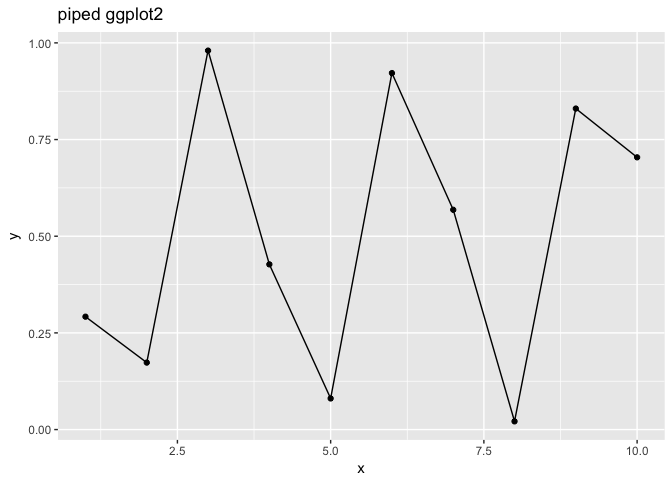
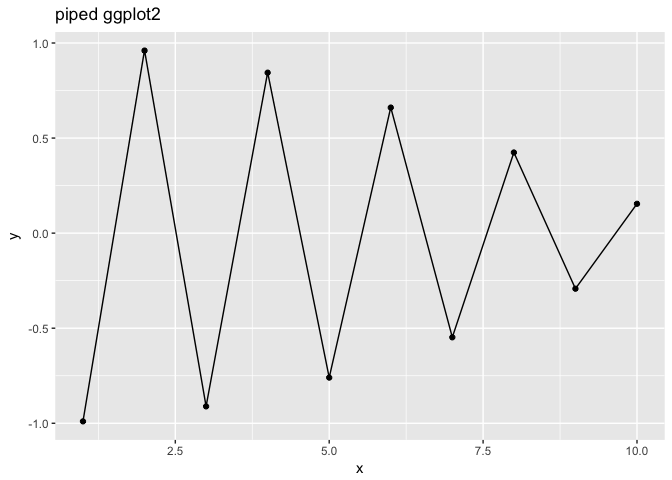
re-dispatch right-default impl. re-do examples.

diff --git a/docs/reference/DebugFnWE.html b/docs/reference/DebugFnWE.html
@@ -166,19 +166,19 @@ Please see: <code><a href='https://cran.rstudio.com/web/packages/wrapr/vignettes
 <span class='co'># capture error on incorrect run</span>
 <span class='fu'>tryCatch</span>(
    <span class='fu'>df</span>(<span class='fl'>12</span>),
-   <span class='kw'>error</span> <span class='kw'>=</span> <span class='kw'>function</span>(<span class='no'>e</span>) { <span class='fu'>print</span>(<span class='no'>e</span>) })</div><div class='output co'>#&gt; &lt;simpleError in value[[3L]](cond): wrapr::DebugFnWE: wrote '/var/folders/7q/h_jp2vj131g5799gfnpzhdp80000gn/T//Rtmpe9z8zF/debug152aa509ebf64.RDS' on catching 'Error in (1:10)[[i]]: subscript out of bounds'
+   <span class='kw'>error</span> <span class='kw'>=</span> <span class='kw'>function</span>(<span class='no'>e</span>) { <span class='fu'>print</span>(<span class='no'>e</span>) })</div><div class='output co'>#&gt; &lt;simpleError in value[[3L]](cond): wrapr::DebugFnWE: wrote '/var/folders/7q/h_jp2vj131g5799gfnpzhdp80000gn/T//RtmpmJEVA4/debug8068766d5ba9.RDS' on catching 'Error in (1:10)[[i]]: subscript out of bounds'
 #&gt;  You can reproduce the error with:
-#&gt; 'p &lt;- readRDS('/var/folders/7q/h_jp2vj131g5799gfnpzhdp80000gn/T//Rtmpe9z8zF/debug152aa509ebf64.RDS'); do.call(p$fn, p$args, envir= p$env)'&gt;</div><div class='input'><span class='co'># examine details</span>
+#&gt; 'p &lt;- readRDS('/var/folders/7q/h_jp2vj131g5799gfnpzhdp80000gn/T//RtmpmJEVA4/debug8068766d5ba9.RDS'); do.call(p$fn, p$args, envir= p$env)'&gt;</div><div class='input'><span class='co'># examine details</span>
 <span class='no'>situation</span> <span class='kw'>&lt;-</span> <span class='fu'>readRDS</span>(<span class='no'>saveDest</span>)
 <span class='fu'>str</span>(<span class='no'>situation</span>)</div><div class='output co'>#&gt; List of 5
 #&gt;  $ fn       :function (i)  
 #&gt;   ..- attr(*, "srcref")=Class 'srcref'  atomic [1:8] 3 6 3 32 6 32 3 3
-#&gt;   .. .. ..- attr(*, "srcfile")=Classes 'srcfilecopy', 'srcfile' &lt;environment: 0x1041d18b0&gt; 
+#&gt;   .. .. ..- attr(*, "srcfile")=Classes 'srcfilecopy', 'srcfile' &lt;environment: 0x114bf2660&gt; 
 #&gt;  $ args     :List of 1
 #&gt;   ..$ : num 12
 #&gt;  $ namedargs: language df(12)
 #&gt;  $ fn_name  : chr "f"
-#&gt;  $ env      :&lt;environment: 0x1041d1c68&gt; </div><div class='input'><span class='co'># fix and re-run</span>
+#&gt;  $ env      :&lt;environment: 0x114bf22e0&gt; </div><div class='input'><span class='co'># fix and re-run</span>
 <span class='no'>situation</span>$<span class='no'>args</span><span class='kw'>[[</span><span class='fl'>1</span>]] <span class='kw'>&lt;-</span> <span class='fl'>6</span>
 <span class='fu'>do.call</span>(<span class='no'>situation</span>$<span class='no'>fn</span>, <span class='no'>situation</span>$<span class='no'>args</span>, <span class='kw'>envir</span><span class='kw'>=</span><span class='no'>situation</span>$<span class='no'>env</span>)</div><div class='output co'>#&gt; [1] 6</div><div class='input'><span class='co'># clean up</span>
 <span class='fu'>file.remove</span>(<span class='no'>saveDest</span>)</div><div class='output co'>#&gt; [1] TRUE</div><div class='input'>

diff --git a/docs/reference/DebugPrintFnE.html b/docs/reference/DebugPrintFnE.html
@@ -165,17 +165,17 @@ Please see: <code><a href='https://cran.rstudio.com/web/packages/wrapr/vignettes
 <span class='co'># capture error on incorrect run</span>
 <span class='fu'>tryCatch</span>(
    <span class='fu'>DebugPrintFnE</span>(<span class='no'>saveDest</span>, <span class='no'>f</span>, <span class='fl'>12</span>),
-   <span class='kw'>error</span> <span class='kw'>=</span> <span class='kw'>function</span>(<span class='no'>e</span>) { <span class='fu'>print</span>(<span class='no'>e</span>) })</div><div class='output co'>#&gt; &lt;simpleError in value[[3L]](cond): wrapr::DebugPrintFnE: wrote '/var/folders/7q/h_jp2vj131g5799gfnpzhdp80000gn/T//Rtmpe9z8zF/debug152aa1e28051e.RDS' on catching 'Error in (1:10)[[i]]: subscript out of bounds'
+   <span class='kw'>error</span> <span class='kw'>=</span> <span class='kw'>function</span>(<span class='no'>e</span>) { <span class='fu'>print</span>(<span class='no'>e</span>) })</div><div class='output co'>#&gt; &lt;simpleError in value[[3L]](cond): wrapr::DebugPrintFnE: wrote '/var/folders/7q/h_jp2vj131g5799gfnpzhdp80000gn/T//RtmpmJEVA4/debug8068a48a125.RDS' on catching 'Error in (1:10)[[i]]: subscript out of bounds'
 #&gt;  You can reproduce the error with:
-#&gt; 'p &lt;- readRDS('/var/folders/7q/h_jp2vj131g5799gfnpzhdp80000gn/T//Rtmpe9z8zF/debug152aa1e28051e.RDS'); do.call(p$fn, p$args, envir= p$env)'&gt;</div><div class='input'><span class='co'># examine details</span>
+#&gt; 'p &lt;- readRDS('/var/folders/7q/h_jp2vj131g5799gfnpzhdp80000gn/T//RtmpmJEVA4/debug8068a48a125.RDS'); do.call(p$fn, p$args, envir= p$env)'&gt;</div><div class='input'><span class='co'># examine details</span>
 <span class='no'>situation</span> <span class='kw'>&lt;-</span> <span class='fu'>readRDS</span>(<span class='no'>saveDest</span>)
 <span class='fu'>str</span>(<span class='no'>situation</span>)</div><div class='output co'>#&gt; List of 4
 #&gt;  $ fn     :function (i)  
 #&gt;   ..- attr(*, "srcref")=Class 'srcref'  atomic [1:8] 3 6 3 32 6 32 3 3
-#&gt;   .. .. ..- attr(*, "srcfile")=Classes 'srcfilecopy', 'srcfile' &lt;environment: 0x109cbfd48&gt; 
+#&gt;   .. .. ..- attr(*, "srcfile")=Classes 'srcfilecopy', 'srcfile' &lt;environment: 0x10f8dc3c0&gt; 
 #&gt;  $ args   :List of 1
 #&gt;   ..$ : num 12
-#&gt;  $ env    :&lt;environment: 0x109cbe158&gt; 
+#&gt;  $ env    :&lt;environment: 0x10f8dc040&gt; 
 #&gt;  $ fn_name: chr "f"</div><div class='input'><span class='co'># fix and re-run</span>
 <span class='no'>situation</span>$<span class='no'>args</span><span class='kw'>[[</span><span class='fl'>1</span>]] <span class='kw'>&lt;-</span> <span class='fl'>6</span>
 <span class='fu'>do.call</span>(<span class='no'>situation</span>$<span class='no'>fn</span>, <span class='no'>situation</span>$<span class='no'>args</span>, <span class='kw'>envir</span><span class='kw'>=</span><span class='no'>situation</span>$<span class='no'>env</span>)</div><div class='output co'>#&gt; [1] 6</div><div class='input'><span class='co'># clean up</span>

diff --git a/docs/reference/DebugFnE.html b/docs/reference/DebugFnE.html
@@ -164,17 +164,17 @@ Please see: <code><a href='https://cran.rstudio.com/web/packages/wrapr/vignettes
 <span class='co'># capture error on incorrect run</span>
 <span class='fu'>tryCatch</span>(
    <span class='fu'>DebugFnE</span>(<span class='no'>saveDest</span>, <span class='no'>f</span>, <span class='fl'>12</span>),
-   <span class='kw'>error</span> <span class='kw'>=</span> <span class='kw'>function</span>(<span class='no'>e</span>) { <span class='fu'>print</span>(<span class='no'>e</span>) })</div><div class='output co'>#&gt; &lt;simpleError in value[[3L]](cond): wrapr::DebugFnE: wrote '/var/folders/7q/h_jp2vj131g5799gfnpzhdp80000gn/T//Rtmpe9z8zF/debug152aa67945d7e.RDS' on catching 'Error in (1:10)[[i]]: subscript out of bounds'
+   <span class='kw'>error</span> <span class='kw'>=</span> <span class='kw'>function</span>(<span class='no'>e</span>) { <span class='fu'>print</span>(<span class='no'>e</span>) })</div><div class='output co'>#&gt; &lt;simpleError in value[[3L]](cond): wrapr::DebugFnE: wrote '/var/folders/7q/h_jp2vj131g5799gfnpzhdp80000gn/T//RtmpmJEVA4/debug806814cdcf06.RDS' on catching 'Error in (1:10)[[i]]: subscript out of bounds'
 #&gt;  You can reproduce the error with:
-#&gt; 'p &lt;- readRDS('/var/folders/7q/h_jp2vj131g5799gfnpzhdp80000gn/T//Rtmpe9z8zF/debug152aa67945d7e.RDS'); do.call(p$fn, p$args, envir= p$env)'&gt;</div><div class='input'><span class='co'># examine details</span>
+#&gt; 'p &lt;- readRDS('/var/folders/7q/h_jp2vj131g5799gfnpzhdp80000gn/T//RtmpmJEVA4/debug806814cdcf06.RDS'); do.call(p$fn, p$args, envir= p$env)'&gt;</div><div class='input'><span class='co'># examine details</span>
 <span class='no'>situation</span> <span class='kw'>&lt;-</span> <span class='fu'>readRDS</span>(<span class='no'>saveDest</span>)
 <span class='fu'>str</span>(<span class='no'>situation</span>)</div><div class='output co'>#&gt; List of 4
 #&gt;  $ fn     :function (i)  
 #&gt;   ..- attr(*, "srcref")=Class 'srcref'  atomic [1:8] 3 6 3 32 6 32 3 3
-#&gt;   .. .. ..- attr(*, "srcfile")=Classes 'srcfilecopy', 'srcfile' &lt;environment: 0x109d4e988&gt; 
+#&gt;   .. .. ..- attr(*, "srcfile")=Classes 'srcfilecopy', 'srcfile' &lt;environment: 0x10fd65d80&gt; 
 #&gt;  $ args   :List of 1
 #&gt;   ..$ : num 12
-#&gt;  $ env    :&lt;environment: 0x109d4ed40&gt; 
+#&gt;  $ env    :&lt;environment: 0x10fd65a00&gt; 
 #&gt;  $ fn_name: chr "f"</div><div class='input'><span class='co'># fix and re-run</span>
 <span class='no'>situation</span>$<span class='no'>args</span><span class='kw'>[[</span><span class='fl'>1</span>]] <span class='kw'>&lt;-</span> <span class='fl'>6</span>
 <span class='fu'>do.call</span>(<span class='no'>situation</span>$<span class='no'>fn</span>, <span class='no'>situation</span>$<span class='no'>args</span>, <span class='kw'>envir</span><span class='kw'>=</span><span class='no'>situation</span>$<span class='no'>env</span>)</div><div class='output co'>#&gt; [1] 6</div><div class='input'><span class='co'># clean up</span>

diff --git a/docs/reference/DebugFnW.html b/docs/reference/DebugFnW.html
@@ -162,14 +162,14 @@ Please see: <code><a href='https://cran.rstudio.com/web/packages/wrapr/vignettes
 <span class='co'># capture error on incorrect run</span>
 <span class='fu'>tryCatch</span>(
    <span class='fu'>df</span>(<span class='fl'>12</span>),
-   <span class='kw'>error</span> <span class='kw'>=</span> <span class='kw'>function</span>(<span class='no'>e</span>) { <span class='fu'>print</span>(<span class='no'>e</span>) })</div><div class='output co'>#&gt; &lt;simpleError in value[[3L]](cond): wrapr::DebugFnW: wrote '/var/folders/7q/h_jp2vj131g5799gfnpzhdp80000gn/T//Rtmpe9z8zF/debug152aa3c7998f2.RDS' on catching 'Error in (1:10)[[i]]: subscript out of bounds'
+   <span class='kw'>error</span> <span class='kw'>=</span> <span class='kw'>function</span>(<span class='no'>e</span>) { <span class='fu'>print</span>(<span class='no'>e</span>) })</div><div class='output co'>#&gt; &lt;simpleError in value[[3L]](cond): wrapr::DebugFnW: wrote '/var/folders/7q/h_jp2vj131g5799gfnpzhdp80000gn/T//RtmpmJEVA4/debug806872bbd5a3.RDS' on catching 'Error in (1:10)[[i]]: subscript out of bounds'
 #&gt;  You can reproduce the error with:
-#&gt; 'p &lt;- readRDS('/var/folders/7q/h_jp2vj131g5799gfnpzhdp80000gn/T//Rtmpe9z8zF/debug152aa3c7998f2.RDS'); do.call(p$fn, p$args)'&gt;</div><div class='input'><span class='co'># examine details</span>
+#&gt; 'p &lt;- readRDS('/var/folders/7q/h_jp2vj131g5799gfnpzhdp80000gn/T//RtmpmJEVA4/debug806872bbd5a3.RDS'); do.call(p$fn, p$args)'&gt;</div><div class='input'><span class='co'># examine details</span>
 <span class='no'>situation</span> <span class='kw'>&lt;-</span> <span class='fu'>readRDS</span>(<span class='no'>saveDest</span>)
 <span class='fu'>str</span>(<span class='no'>situation</span>)</div><div class='output co'>#&gt; List of 4
 #&gt;  $ fn       :function (i)  
 #&gt;   ..- attr(*, "srcref")=Class 'srcref'  atomic [1:8] 3 6 3 32 6 32 3 3
-#&gt;   .. .. ..- attr(*, "srcfile")=Classes 'srcfilecopy', 'srcfile' &lt;environment: 0x1043bf208&gt; 
+#&gt;   .. .. ..- attr(*, "srcfile")=Classes 'srcfilecopy', 'srcfile' &lt;environment: 0x10ff7f3c0&gt; 
 #&gt;  $ args     :List of 1
 #&gt;   ..$ : num 12
 #&gt;  $ namedargs: language df(12)
@@ -192,7 +192,7 @@ Please see: <code><a href='https://cran.rstudio.com/web/packages/wrapr/vignettes
 #&gt;  'do.call(p$fn, p$args)' (replace 'p' with actual variable name)&gt;</div><div class='input'><span class='fu'>str</span>(<span class='no'>lastError</span>)</div><div class='output co'>#&gt; List of 4
 #&gt;  $ fn       :function (i)  
 #&gt;   ..- attr(*, "srcref")=Class 'srcref'  atomic [1:8] 22 6 22 32 6 32 22 22
-#&gt;   .. .. ..- attr(*, "srcfile")=Classes 'srcfilecopy', 'srcfile' &lt;environment: 0x10afc5e98&gt; 
+#&gt;   .. .. ..- attr(*, "srcfile")=Classes 'srcfilecopy', 'srcfile' &lt;environment: 0x11094eae8&gt; 
 #&gt;  $ args     :List of 1
 #&gt;   ..$ : num 12
 #&gt;  $ namedargs: language df(12)

diff --git a/docs/reference/DebugPrintFn.html b/docs/reference/DebugPrintFn.html
@@ -165,14 +165,14 @@ Please see: <code><a href='https://cran.rstudio.com/web/packages/wrapr/vignettes
 <span class='co'># capture error on incorrect run</span>
 <span class='fu'>tryCatch</span>(
    <span class='fu'>DebugPrintFn</span>(<span class='no'>saveDest</span>, <span class='no'>f</span>, <span class='fl'>12</span>),
-   <span class='kw'>error</span> <span class='kw'>=</span> <span class='kw'>function</span>(<span class='no'>e</span>) { <span class='fu'>print</span>(<span class='no'>e</span>) })</div><div class='output co'>#&gt; &lt;simpleError in value[[3L]](cond): wrapr::DebugPrintFn: wrote '/var/folders/7q/h_jp2vj131g5799gfnpzhdp80000gn/T//Rtmpe9z8zF/debug152aa488552cf.RDS' on catching 'Error in (1:10)[[i]]: subscript out of bounds'
+   <span class='kw'>error</span> <span class='kw'>=</span> <span class='kw'>function</span>(<span class='no'>e</span>) { <span class='fu'>print</span>(<span class='no'>e</span>) })</div><div class='output co'>#&gt; &lt;simpleError in value[[3L]](cond): wrapr::DebugPrintFn: wrote '/var/folders/7q/h_jp2vj131g5799gfnpzhdp80000gn/T//RtmpmJEVA4/debug80687e7f7329.RDS' on catching 'Error in (1:10)[[i]]: subscript out of bounds'
 #&gt;  You can reproduce the error with:
-#&gt; 'p &lt;- readRDS('/var/folders/7q/h_jp2vj131g5799gfnpzhdp80000gn/T//Rtmpe9z8zF/debug152aa488552cf.RDS'); do.call(p$fn, p$args)'&gt;</div><div class='input'><span class='co'># examine details</span>
+#&gt; 'p &lt;- readRDS('/var/folders/7q/h_jp2vj131g5799gfnpzhdp80000gn/T//RtmpmJEVA4/debug80687e7f7329.RDS'); do.call(p$fn, p$args)'&gt;</div><div class='input'><span class='co'># examine details</span>
 <span class='no'>situation</span> <span class='kw'>&lt;-</span> <span class='fu'>readRDS</span>(<span class='no'>saveDest</span>)
 <span class='fu'>str</span>(<span class='no'>situation</span>)</div><div class='output co'>#&gt; List of 3
 #&gt;  $ fn     :function (i)  
 #&gt;   ..- attr(*, "srcref")=Class 'srcref'  atomic [1:8] 3 6 3 32 6 32 3 3
-#&gt;   .. .. ..- attr(*, "srcfile")=Classes 'srcfilecopy', 'srcfile' &lt;environment: 0x109ced7c8&gt; 
+#&gt;   .. .. ..- attr(*, "srcfile")=Classes 'srcfilecopy', 'srcfile' &lt;environment: 0x10f8aba38&gt; 
 #&gt;  $ args   :List of 1
 #&gt;   ..$ : num 12
 #&gt;  $ fn_name: chr "f"</div><div class='input'><span class='co'># fix and re-run</span>

diff --git a/docs/reference/DebugFn.html b/docs/reference/DebugFn.html
@@ -164,14 +164,14 @@ Please see: <code><a href='https://cran.rstudio.com/web/packages/wrapr/vignettes
 <span class='co'># capture error on incorrect run</span>
 <span class='fu'>tryCatch</span>(
    <span class='fu'>DebugFn</span>(<span class='no'>saveDest</span>, <span class='no'>f</span>, <span class='fl'>12</span>),
-   <span class='kw'>error</span> <span class='kw'>=</span> <span class='kw'>function</span>(<span class='no'>e</span>) { <span class='fu'>print</span>(<span class='no'>e</span>) })</div><div class='output co'>#&gt; &lt;simpleError in value[[3L]](cond): wrapr::DebugFn: wrote '/var/folders/7q/h_jp2vj131g5799gfnpzhdp80000gn/T//Rtmpe9z8zF/debug152aa6a40794.RDS' on catching 'Error in (1:10)[[i]]: subscript out of bounds'
+   <span class='kw'>error</span> <span class='kw'>=</span> <span class='kw'>function</span>(<span class='no'>e</span>) { <span class='fu'>print</span>(<span class='no'>e</span>) })</div><div class='output co'>#&gt; &lt;simpleError in value[[3L]](cond): wrapr::DebugFn: wrote '/var/folders/7q/h_jp2vj131g5799gfnpzhdp80000gn/T//RtmpmJEVA4/debug8068611b9a90.RDS' on catching 'Error in (1:10)[[i]]: subscript out of bounds'
 #&gt;  You can reproduce the error with:
-#&gt; 'p &lt;- readRDS('/var/folders/7q/h_jp2vj131g5799gfnpzhdp80000gn/T//Rtmpe9z8zF/debug152aa6a40794.RDS'); do.call(p$fn, p$args)'&gt;</div><div class='input'><span class='co'># examine details</span>
+#&gt; 'p &lt;- readRDS('/var/folders/7q/h_jp2vj131g5799gfnpzhdp80000gn/T//RtmpmJEVA4/debug8068611b9a90.RDS'); do.call(p$fn, p$args)'&gt;</div><div class='input'><span class='co'># examine details</span>
 <span class='no'>situation</span> <span class='kw'>&lt;-</span> <span class='fu'>readRDS</span>(<span class='no'>saveDest</span>)
 <span class='fu'>str</span>(<span class='no'>situation</span>)</div><div class='output co'>#&gt; List of 3
 #&gt;  $ fn     :function (i)  
 #&gt;   ..- attr(*, "srcref")=Class 'srcref'  atomic [1:8] 3 6 3 32 6 32 3 3
-#&gt;   .. .. ..- attr(*, "srcfile")=Classes 'srcfilecopy', 'srcfile' &lt;environment: 0x10a485d88&gt; 
+#&gt;   .. .. ..- attr(*, "srcfile")=Classes 'srcfilecopy', 'srcfile' &lt;environment: 0x10d78eb88&gt; 
 #&gt;  $ args   :List of 1
 #&gt;   ..$ : num 12
 #&gt;  $ fn_name: chr "f"</div><div class='input'><span class='co'># fix and re-run</span>

diff --git a/docs/reference/wrapr_function.default.html b/docs/reference/wrapr_function.default.html
@@ -159,7 +159,9 @@
     <h2 class="hasAnchor" id="examples"><a class="anchor" href="#examples"></a>Examples</h2>
     <pre class="examples"><div class='input'>
 <span class='no'>a</span> <span class='kw'>&lt;-</span> <span class='fu'>substitute</span>({<span class='no'>.</span> + <span class='fl'>1</span>})
-<span class='fl'>5</span> <span class='kw'>%.&gt;%</span> <span class='no'>a</span></div><div class='output co'>#&gt; [1] 6</div><div class='input'>
+<span class='fl'>5</span> <span class='kw'>%.&gt;%</span> <span class='no'>a</span></div><div class='output co'>#&gt; {
+#&gt;     . + 1
+#&gt; }</div><div class='input'>
 </div></pre>
   </div>
   <div class="col-md-3 hidden-xs hidden-sm" id="sidebar">

diff --git a/docs/reference/buildNameCallback.html b/docs/reference/buildNameCallback.html
@@ -159,7 +159,7 @@
 <span class='fu'>str</span>(<span class='no'>lastError</span>)</div><div class='output co'>#&gt; List of 4
 #&gt;  $ fn       :function (i)  
 #&gt;   ..- attr(*, "srcref")=Class 'srcref'  atomic [1:8] 3 6 3 32 6 32 3 3
-#&gt;   .. .. ..- attr(*, "srcfile")=Classes 'srcfilecopy', 'srcfile' &lt;environment: 0x109fac140&gt; 
+#&gt;   .. .. ..- attr(*, "srcfile")=Classes 'srcfilecopy', 'srcfile' &lt;environment: 0x10d610a70&gt; 
 #&gt;  $ args     :List of 1
 #&gt;   ..$ : num 12
 #&gt;  $ namedargs: language df(12)

diff --git a/docs/articles/DebugFnW.html b/docs/articles/DebugFnW.html
@@ -148,7 +148,7 @@ df &lt;-<span class="st"> </span><span class="kw"><a href="../reference/DebugFnW
 <pre><code>## List of 4
 ##  $ fn       :function (i)  
 ##   ..- attr(*, "srcref")=Class 'srcref'  atomic [1:8] 5 6 5 32 6 32 5 5
-##   .. .. ..- attr(*, "srcfile")=Classes 'srcfilecopy', 'srcfile' &lt;environment: 0x7fb15290ef78&gt; 
+##   .. .. ..- attr(*, "srcfile")=Classes 'srcfilecopy', 'srcfile' &lt;environment: 0x7fb96160b178&gt; 
 ##  $ args     :List of 1
 ##   ..$ : num 0
 ##  $ namedargs: language df(x)

diff --git a/docs/news/index.html b/docs/news/index.html
@@ -134,6 +134,7 @@
 <li>Move base_fns to <a href="https://gist.github.com/JohnMount/1982127318654c8631203e5b5d4946ac" class="uri">https://gist.github.com/JohnMount/1982127318654c8631203e5b5d4946ac</a> and seplyr.</li>
 <li>Minor documentation fixes/improvements.</li>
 <li>Extend map_to_char() to work without names.</li>
+<li>wrapr_function right-dispatch falls back to pipe_step left-disptach as default.</li>
 </ul>
 </div>
     <div id="wrapr-1-3-0-2018-03-12" class="section level1">

diff --git a/extras/magritr_diff_wrapr.md b/extras/magritr_diff_wrapr.md
@@ -103,7 +103,7 @@ library("magrittr")
 ```
 
     ## function(x) { sin(x) }
-    ## <environment: 0x7fedcb05dbf8>
+    ## <environment: 0x7fd1a7b169f8>
 
 ``` r
 f <-  function(x) { sin(x) }
@@ -184,7 +184,7 @@ library("wrapr")
 5 %.>% sin()
 ```
 
-    ## Error in pipe_impl(pipe_left_arg, pipe_right_arg, pipe_environment, pipe_name): wrapr::pipe does not allow direct piping into a no-argument function call expression (such as "sin()", please use sin(.)).
+    ## Error in pipe_step.default(pipe_left_arg, pipe_right_arg, pipe_environment, : wrapr::pipe_step.default does not allow direct piping into a no-argument function call expression (such as "sin()", please use sin(.)).
 
 ``` r
 5 %.>% sin(.)
@@ -202,7 +202,7 @@ library("wrapr")
 5 %.>% base::sin()
 ```
 
-    ## Error in pipe_impl(pipe_left_arg, pipe_right_arg, pipe_environment, pipe_name): wrapr::pipe does not allow direct piping into a no-argument function call expression (such as "base::sin()", please use base::sin(.)).
+    ## Error in pipe_step.default(pipe_left_arg, pipe_right_arg, pipe_environment, : wrapr::pipe_step.default does not allow direct piping into a no-argument function call expression (such as "base::sin()", please use base::sin(.)).
 
 ``` r
 5 %.>% base::sin(.)
@@ -220,7 +220,7 @@ library("wrapr")
 5 %.>% ( sin() )
 ```
 
-    ## Error in pipe_impl(pipe_left_arg, pipe_right_arg, pipe_environment, pipe_name): wrapr::pipe does not allow direct piping into a no-argument function call expression (such as "sin()", please use sin(.)).
+    ## Error in pipe_step.default(pipe_left_arg, pipe_right_arg, pipe_environment, : wrapr::pipe_step.default does not allow direct piping into a no-argument function call expression (such as "sin()", please use sin(.)).
 
 ``` r
 5 %.>% ( sin(.) )

diff --git a/extras/ggplot2_piped.md b/extras/ggplot2_piped.md
@@ -16,7 +16,7 @@ Using [`wrapr`](https://winvector.github.io/wrapr/)'s pipe with `ggplot2` (as in
 #' @export
 #'
 pipe_step.ggplot <- function(pipe_left_arg, pipe_right_arg,
-                             pipe_environment) {
+                             pipe_environment, pipe_name = NULL) {
   pipe_right_arg <- eval(pipe_right_arg,
                          envir = pipe_environment,
                          enclos = pipe_environment)
@@ -31,13 +31,15 @@ suppressPackageStartupMessages(library("dplyr"))
 d <- data.frame(x = 1:10,
                 y = cos(1:10))
 
+line <- geom_line()
+title <-  ggtitle("piped ggplot2")
+
 d %.>%
-  mutate(., y = y*y) %.>%
-  ggplot(.,
-         aes(x = x,  y = y)) %.>%
+  mutate(., y = cos(3*x)) %.>%
+  ggplot(., aes(x = x,  y = y)) %.>%
   geom_point() %.>%
-  geom_line() %.>%
-  ggtitle("piped ggplot2")
+  line %.>%
+  title
 ```
 
 ![](ggplot2_piped_files/figure-markdown_github/unnamed-chunk-1-1.png)
